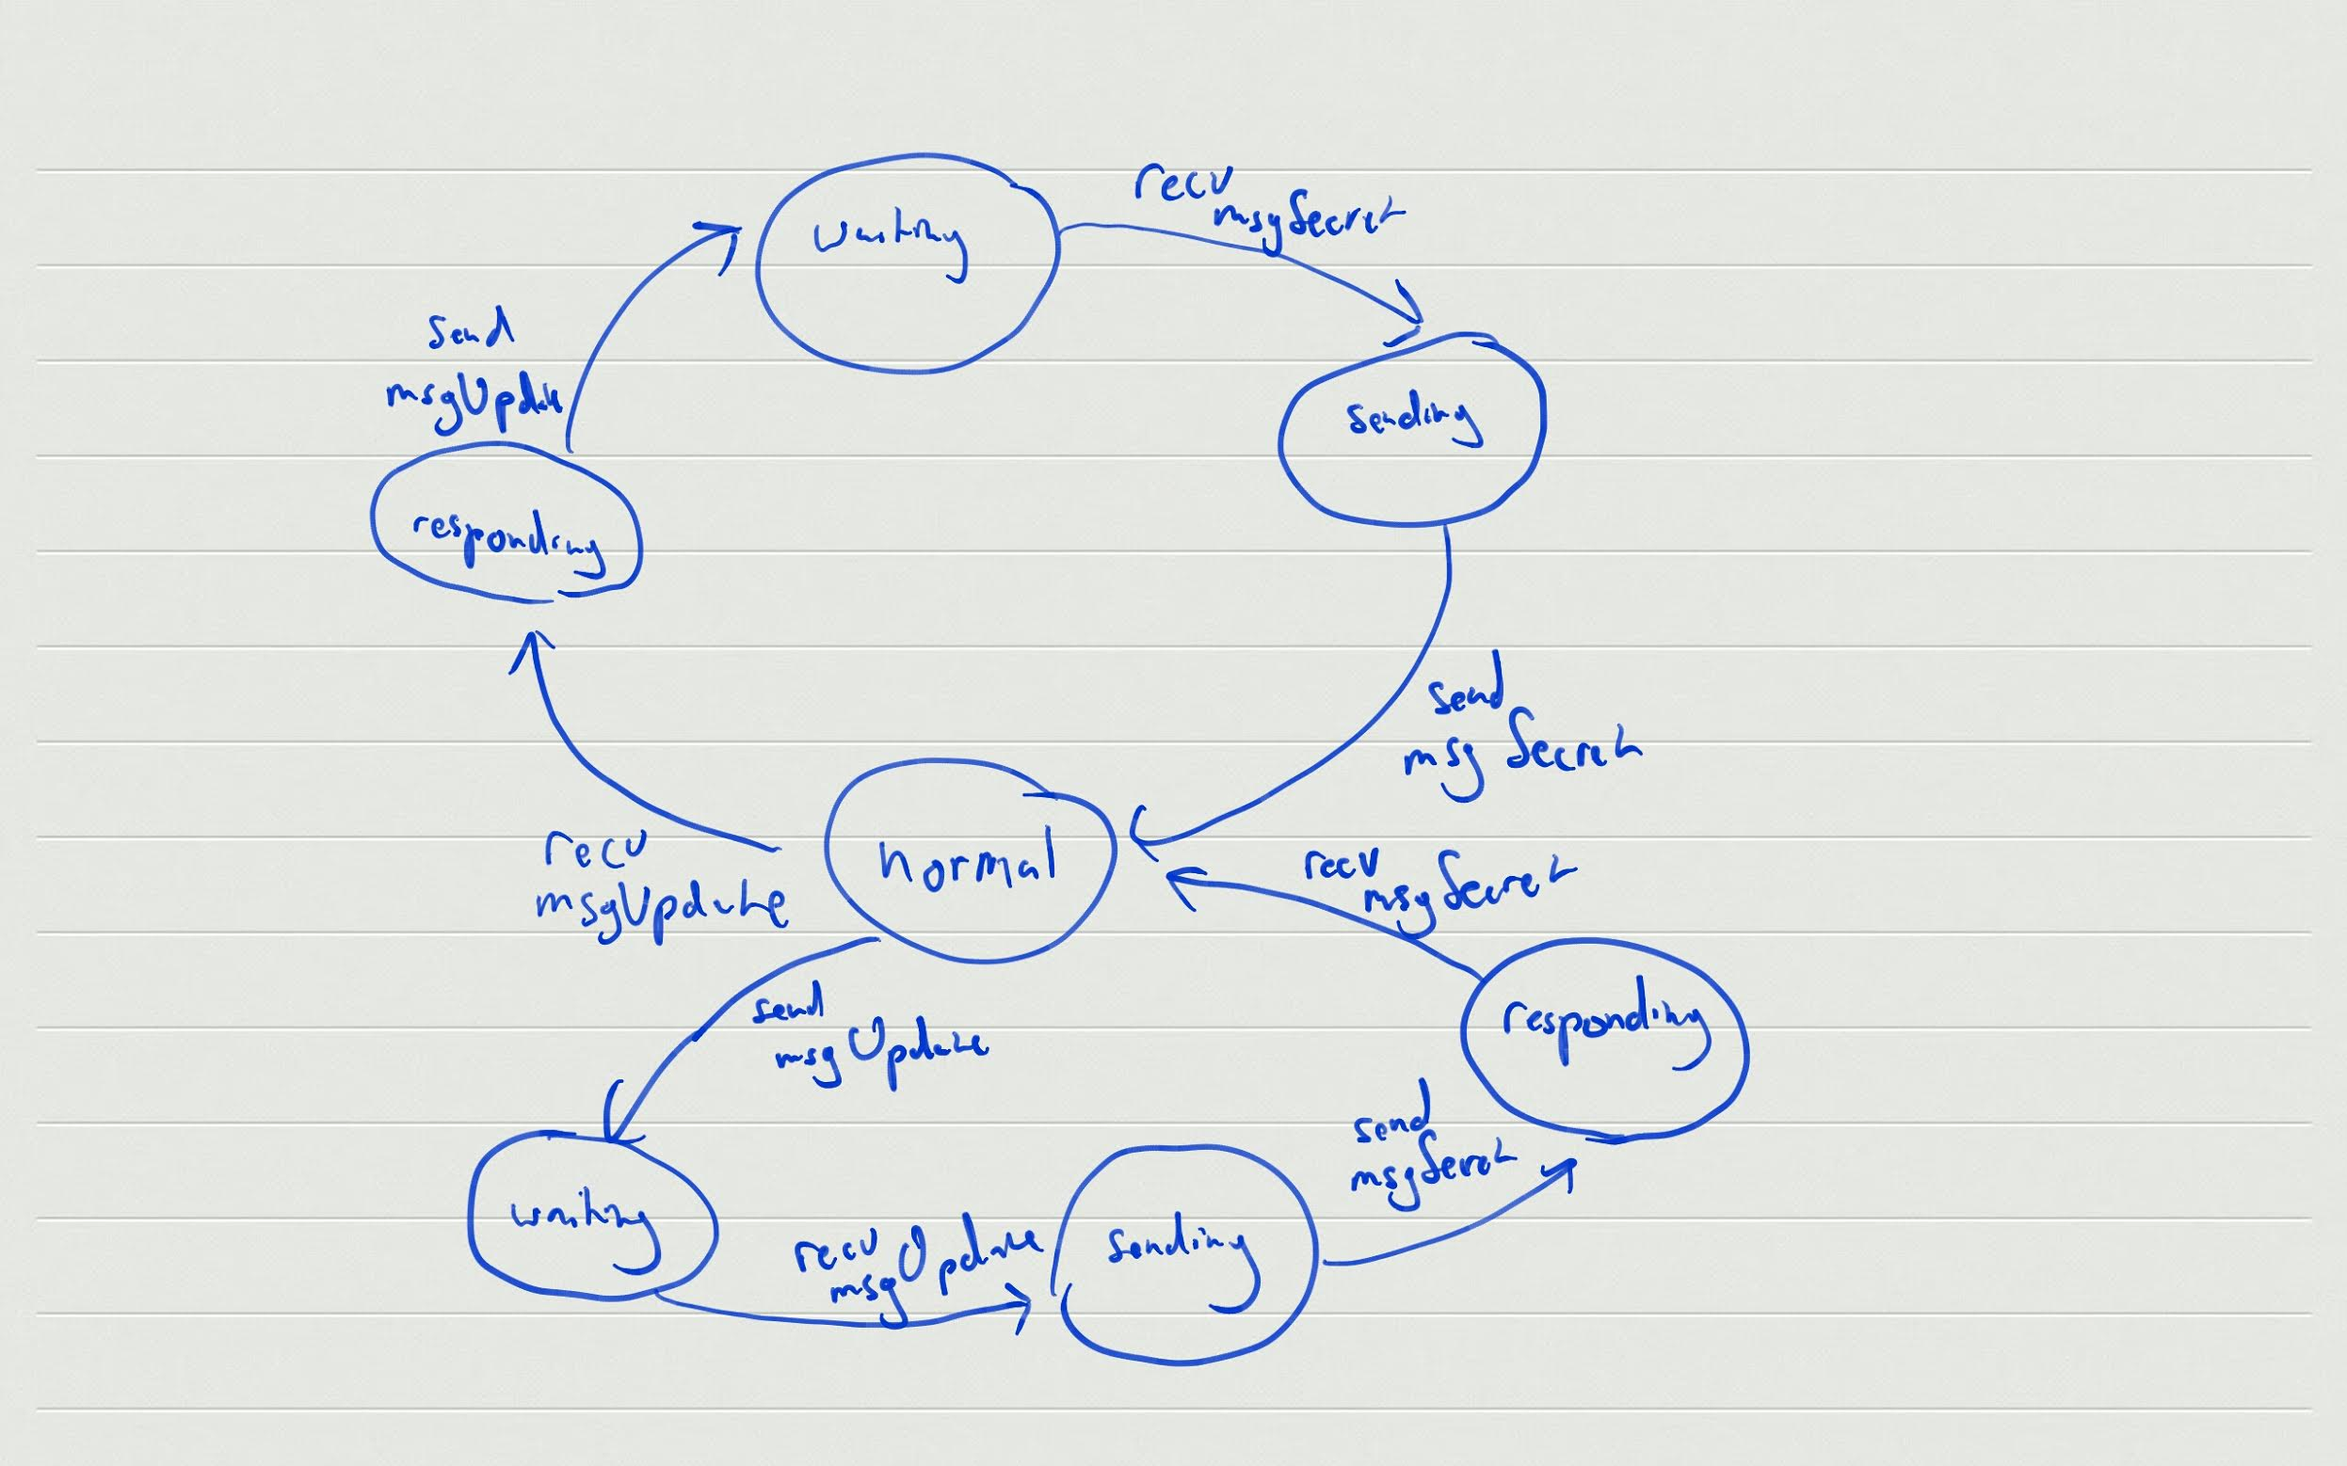
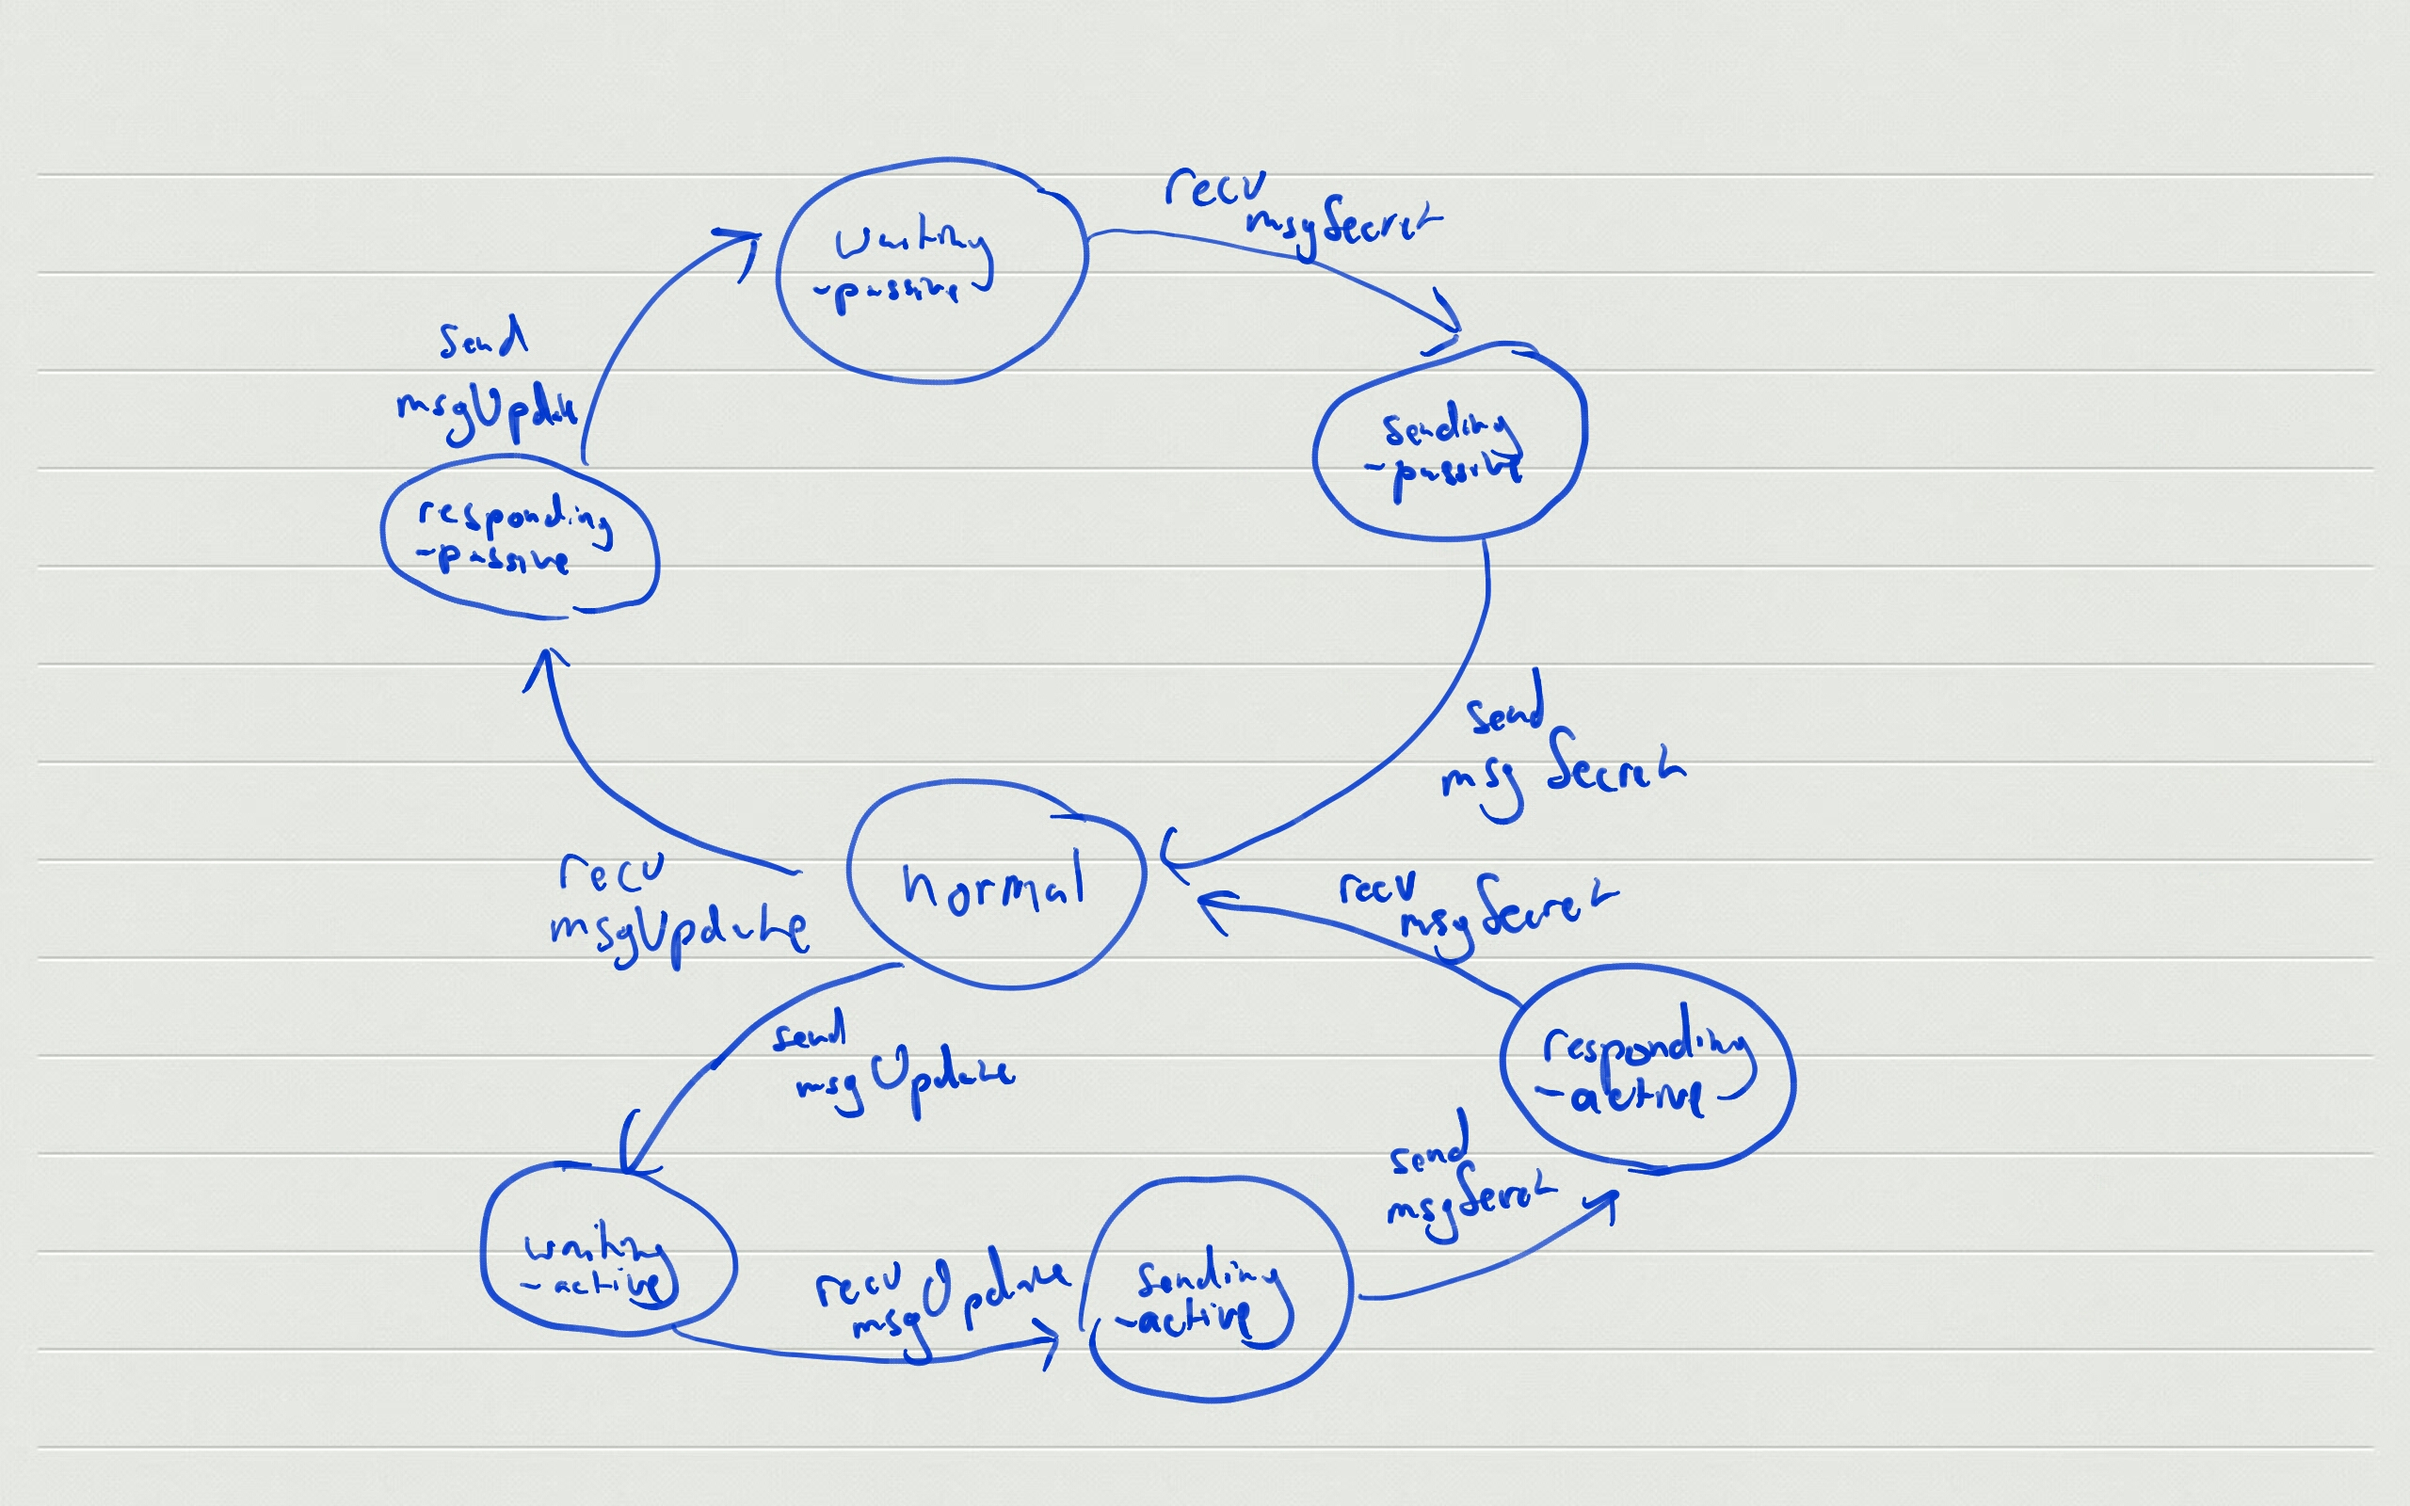
updated state machine representation
Need to distinguish between different states, e.g. "waiting" can be either
"waiting-passive" or "waiting-active".

diff --git a/lib/channel.js b/lib/channel.js
@@ -1,9 +1,10 @@
 'use strict'
 let Struct = require('yours-bitcoin/lib/struct')
+let MsgUpdate = require('../../lib/msg-update')
 
 class Channel extends Struct {
   constructor (
-    state,
+    state = 'normal',
     multiSigAddr,
     myXprv,
     myXpub,
@@ -22,10 +23,8 @@ class Channel extends Struct {
   }
 
   asyncUpdate (outputDescriptions) {
-  }
-
-  // For reducing the number of outputs
-  asyncReduce () {
+    let msg = new MsgUpdate()
+    msg.setOutputDescriptions(outputDescriptions)
   }
 
   asyncHandleMsgUpdate (msgUpdate) {
